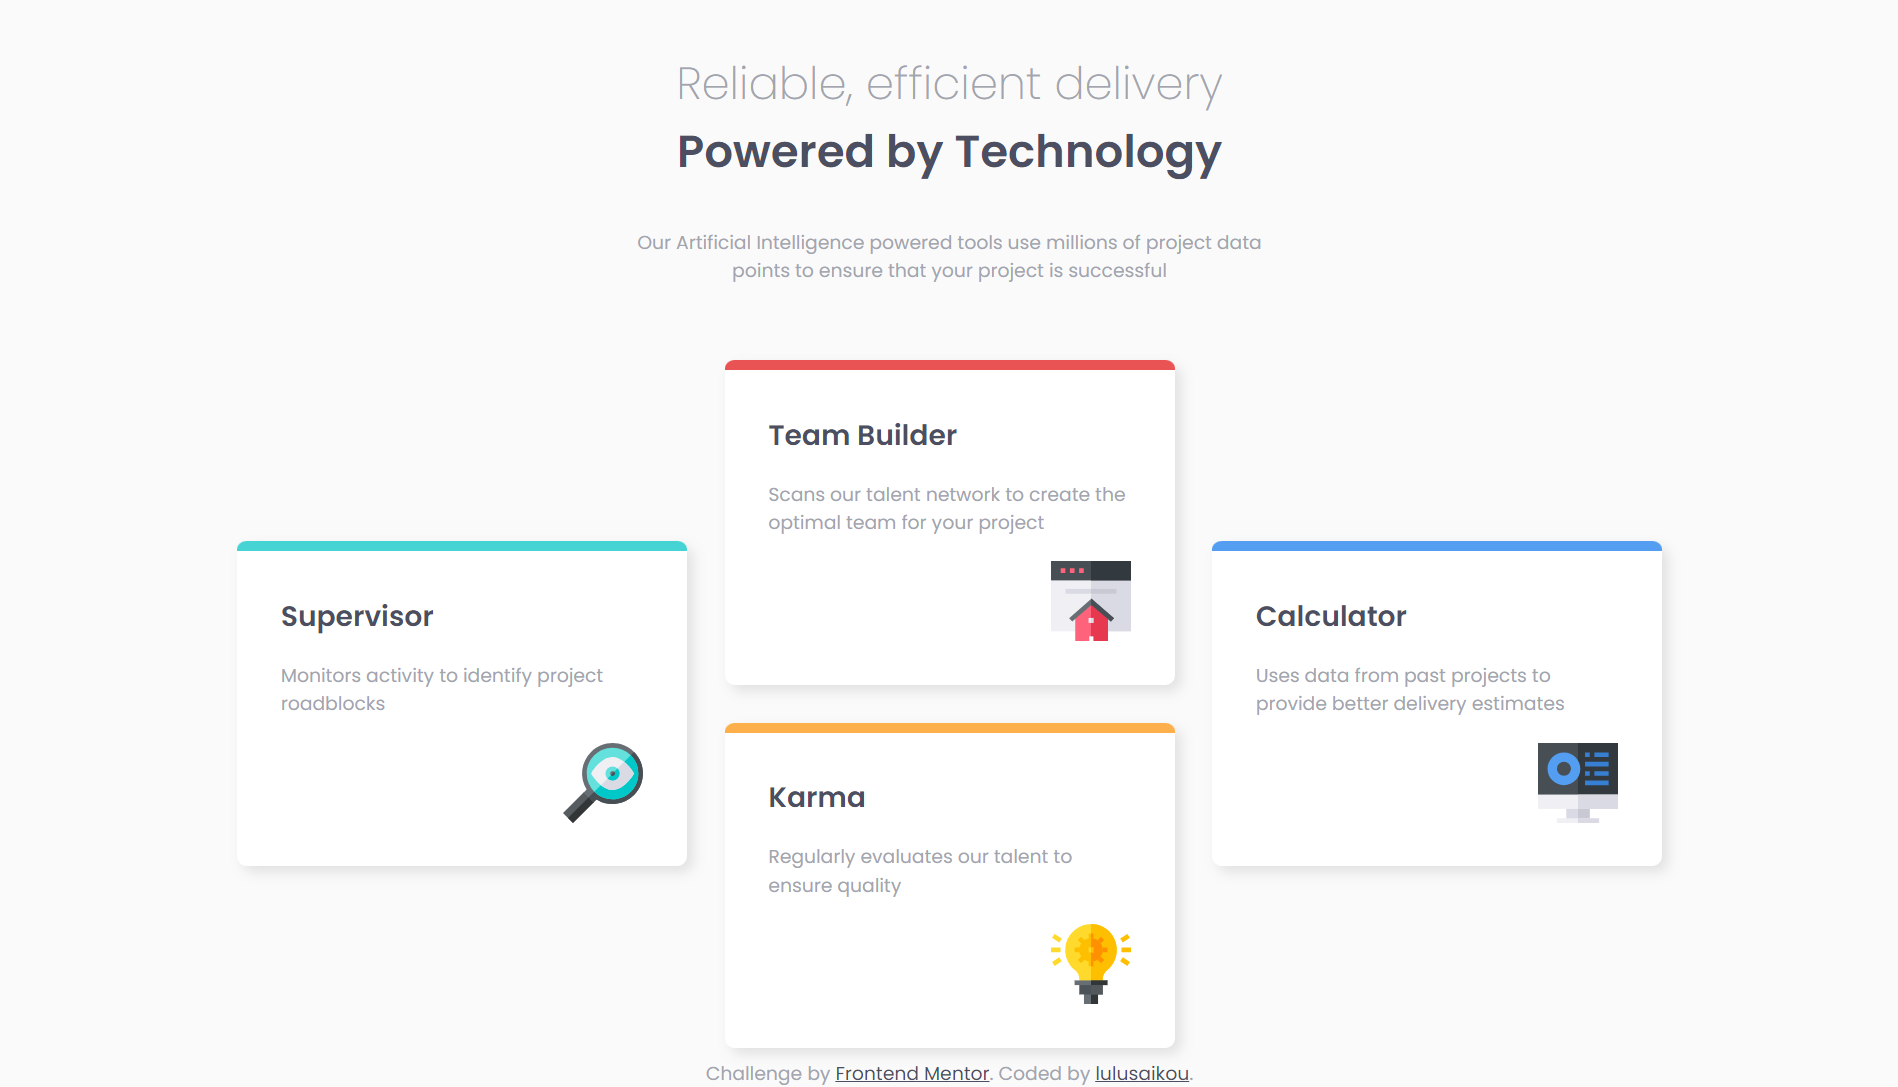
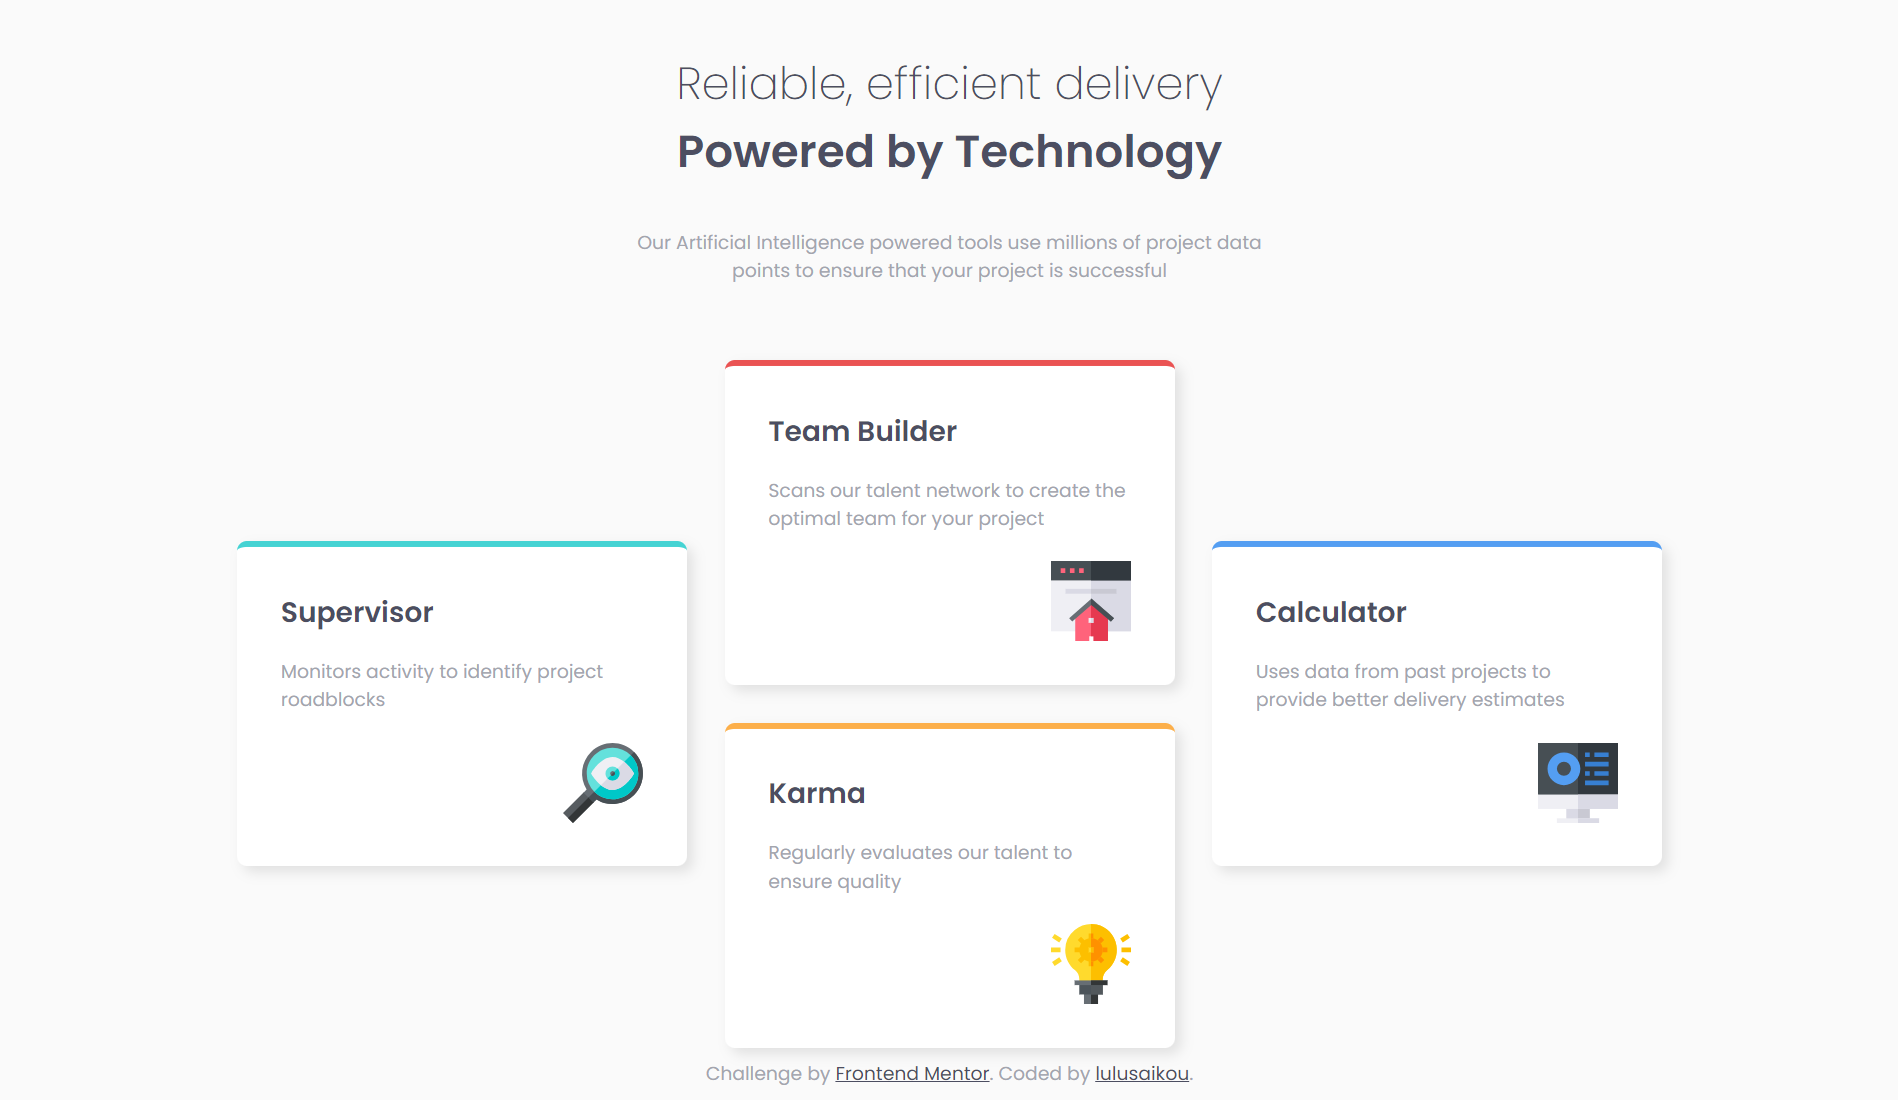
challenge 7 - update css

diff --git a/four-card-feature-section/style.css b/four-card-feature-section/style.css
@@ -68,7 +68,7 @@ body {
   font-family: var(--ff-base);
   font-weight: var(--fw-regular);
   font-size: 1.5rem;
-  height: 100vh;
+  min-height: 100vh;
   display: flex;
   flex-direction: column;
   align-items: center;
@@ -90,10 +90,10 @@ main {
   margin-top: 4rem;
   margin-bottom: 3.5rem;
   text-align: center;
+  color: var(--clr-neutral-600);
 }
 
 .heading--accent {
-  color: var(--clr-neutral-600);
   font-weight: var(--fw-bold);
 }
 
@@ -112,7 +112,7 @@ main {
   --spacing: 3.5rem;
   max-width: 36rem;
   height: 26rem;
-  border-top: solid 8px;
+  border-top: solid 5px;
   border-radius: 8px;
   padding: var(--spacing);
   box-shadow: 5px 5px 10px rgba(0, 0, 0, 0.1);
